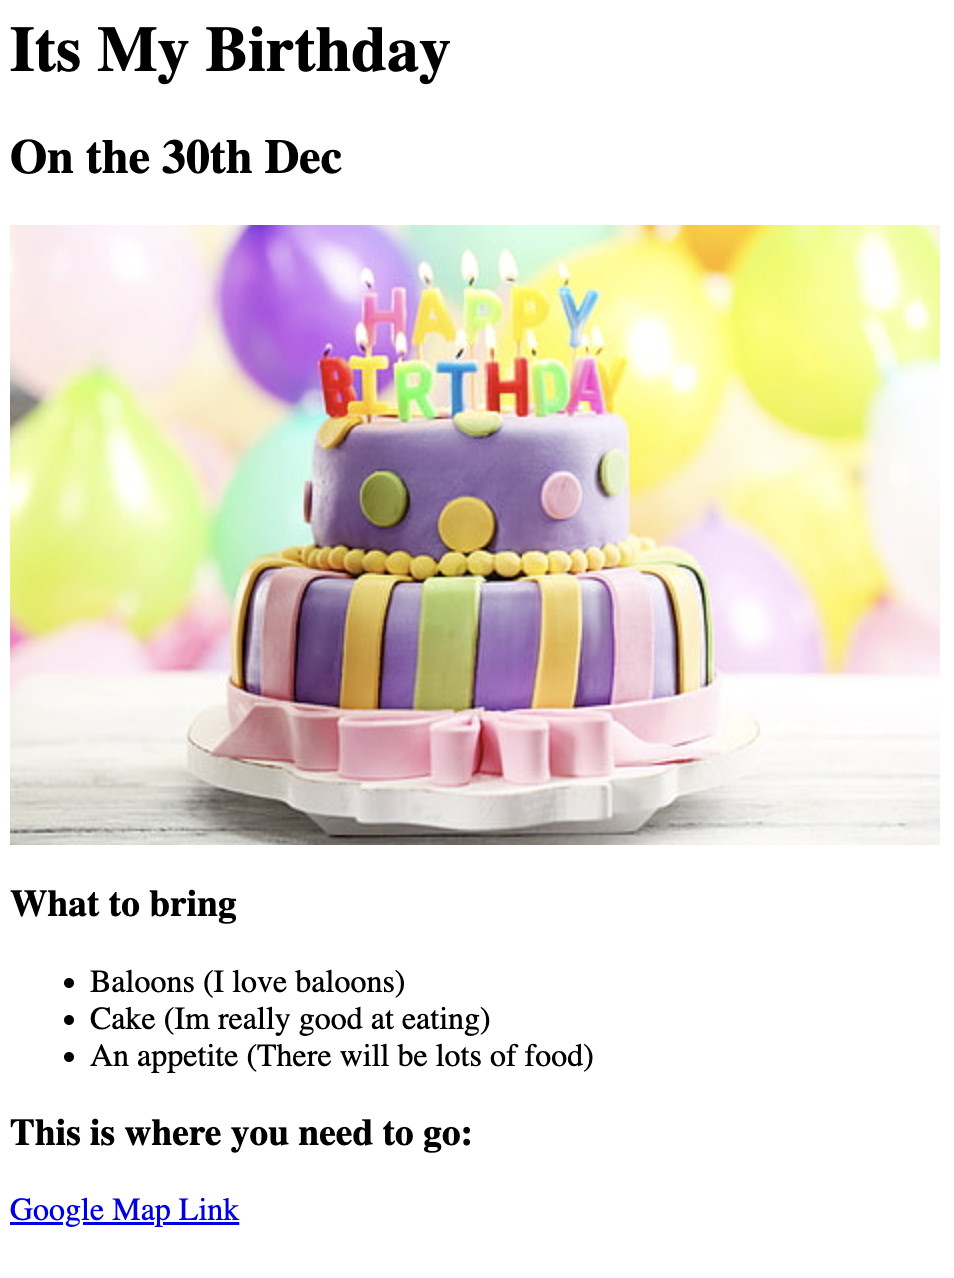
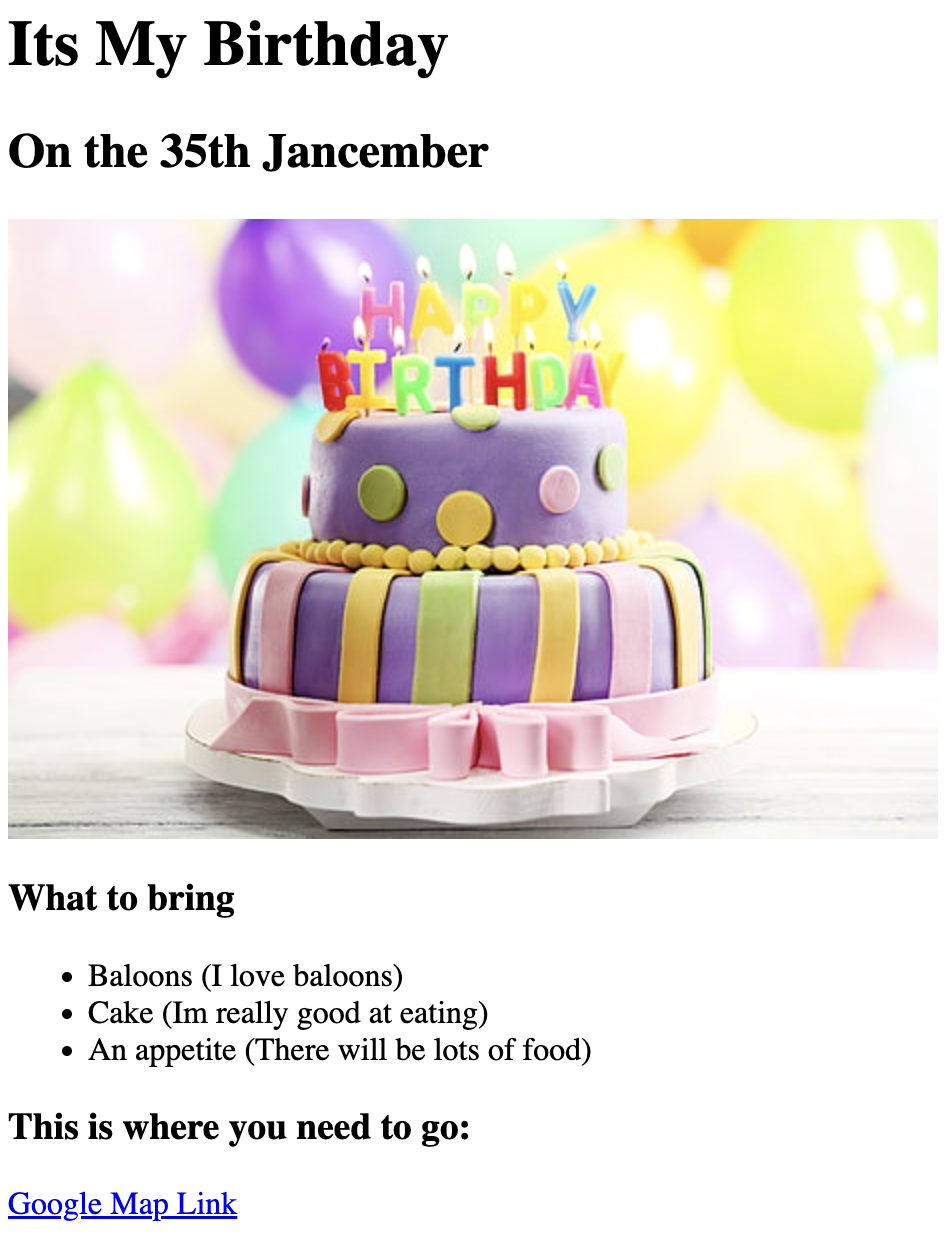
Add files via upload

diff --git a/public/movie-ranking.html b/public/movie-ranking.html
@@ -1,12 +1,12 @@
 <h1>The Best Movies According to anschu</h1>
-<h2>My top 3 movies of all time.</h2>
+<h2>My top 3 movies of all time</h2>
 <hr />
 
 <h3>König der Löwen</h3>
-<p>Hakuna Matata und so</p>
+<p>Hakuna Matata</p>
 
-<h3>How High ? So High !</h3>
-<p>Erst mal einen beefen</p>
+<h3>Pulp Fiction</h3>
+<p>All Time Classic</p>
 
-<h3>Harry Potter</h3>
-<p>Expekto Patronum Hex Hex</p>
+<h3>Training Day</h3>
+<p>and many more</p>

diff --git a/public/birthday-invite.html b/public/birthday-invite.html
@@ -1,5 +1,5 @@
 <h1>Its My Birthday</h1>
-<h2>On the 30th Dec</h2>
+<h2>On the 35th Jancember</h2>
 
 <!-- Example image URL -->
 <img src="https://raw.githubusercontent.com/appbrewery/webdev/main/birthday-cake3.4.jpeg" />
